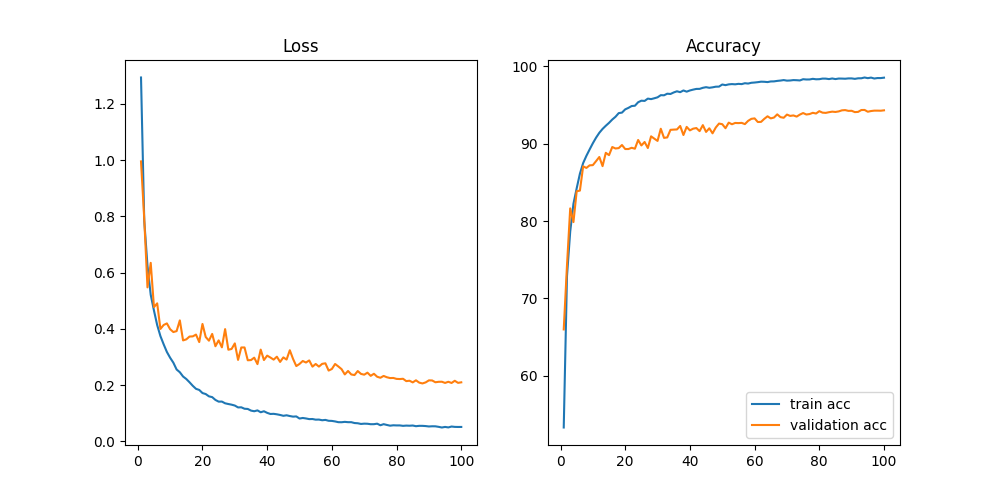
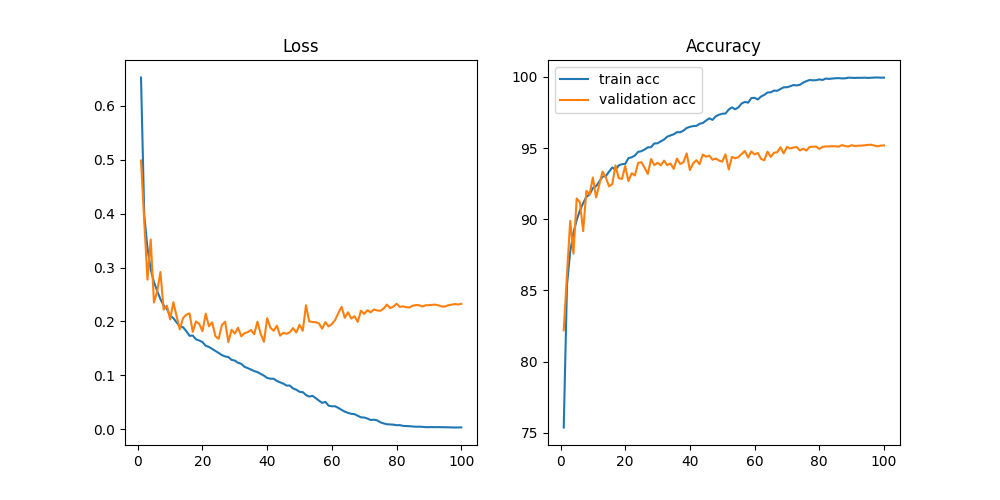
run mixup augmentation on FashionMNIST and update readme

diff --git a/train_teacher.py b/train_teacher.py
@@ -10,7 +10,7 @@ from models.mobilenetv2 import MobileNetV2
 torch.manual_seed(0)
 
 parser = argparse.ArgumentParser(description='Train teacher network')
-parser.add_argument('-m', '--mixup', default=True, type=bool)
+parser.add_argument('-m', '--mixup', default=False, type=bool)
 args = parser.parse_args()
 
 device = getDevice()
@@ -101,13 +101,13 @@ for epoch in range(num_epochs):
         }
         if not os.path.isdir('checkpoint'):
             os.mkdir('checkpoint')
-        torch.save(state, './checkpoint/teacher18_cifar10_cpkt')
+        torch.save(state, './checkpoint/teacher18_FMNIST_cpkt')
         best_acc = val_total_acc[-1]
         print('- New checkpoint -')
 print(f'----- Traing time: {time.process_time() - start} s -----')
 
 print('\nLoading best model...')
-checkpoint = torch.load('./checkpoint/teacher18_cifar10_cpkt')
+checkpoint = torch.load('./checkpoint/teacher18_FMNIST_cpkt')
 model.load_state_dict(checkpoint['model'])
 print('Best acc: {}%'.format(checkpoint['acc']))
 

diff --git a/knowledge_distillation.py b/knowledge_distillation.py
@@ -18,15 +18,15 @@ args = parser.parse_args()
 
 device = getDevice()
 
-writer = SummaryWriter('./runs/CIFAR10/T{}_R{}'.format(args.temperature, args.rate))
+writer = SummaryWriter('./runs/FMNIST/T{}_R{}'.format(args.temperature, args.rate))
 
 teacher = ResNet18()
-teacher.load_state_dict(torch.load('./checkpoint/teacher18_cifar10_cpkt')['model'])
+teacher.load_state_dict(torch.load('./checkpoint/teacher18_FMNIST_cpkt')['model'])
 teacher = teacher.to(device)
 
 student = SimpleNet().to(device)
 
-num_epochs = 1000
+num_epochs = 100
 lr = 0.01
 batch_size = 128
 # optimizer = torch.optim.Adam(student.parameters(), lr=lr, weight_decay=5e-4)

diff --git a/train_student.py b/train_student.py
@@ -9,7 +9,7 @@ from utils import *
 torch.manual_seed(0)
 
 parser = argparse.ArgumentParser(description='Train student network')
-parser.add_argument('-m', '--mixup', default=True, type=bool)
+parser.add_argument('-m', '--mixup', default=False, type=bool)
 args = parser.parse_args()
 
 device = getDevice()

diff --git a/README.md b/README.md
@@ -33,4 +33,4 @@ FashionMNIST
 |  | T=4, R=0.9 | T=4, R=0.95 | T=4, R=1.0 | T=10, R=0.9 |
 |--|:-:|:-:|:-:|:-:|
 | Accuracy | 92.94% | 92.97% | 92.93% | 92.63% |
-| + Mixup  | -      | -      | -      | -      |
+| + Mixup  | 92.83% | 92.72% | 92.74% | -      |
